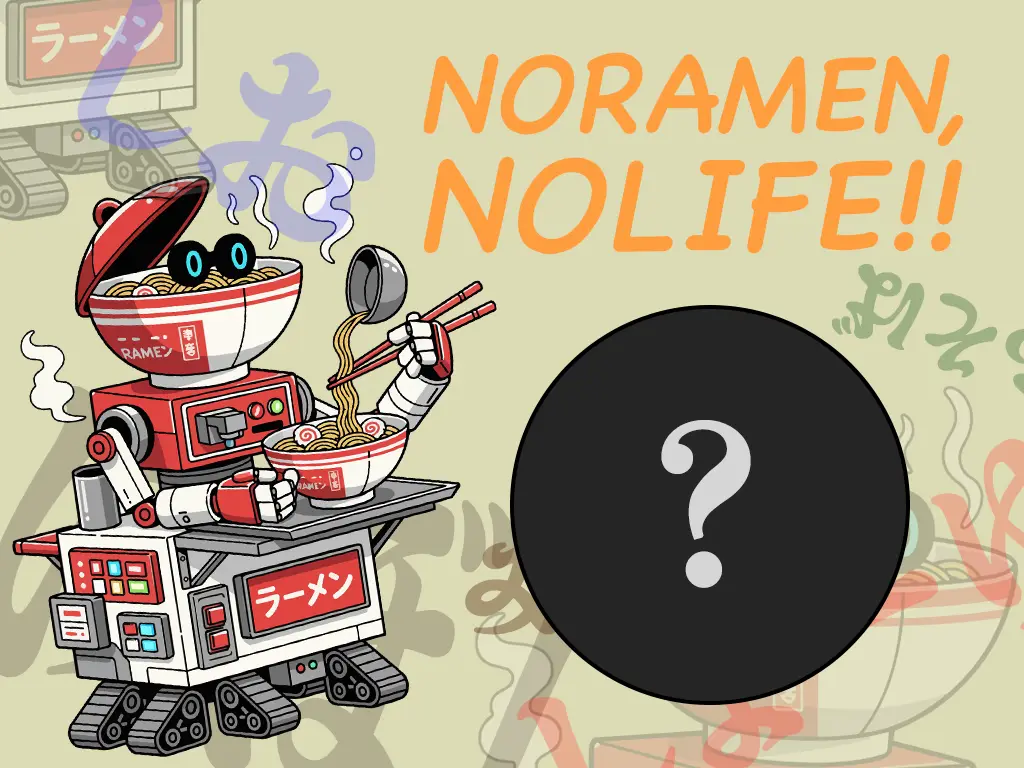
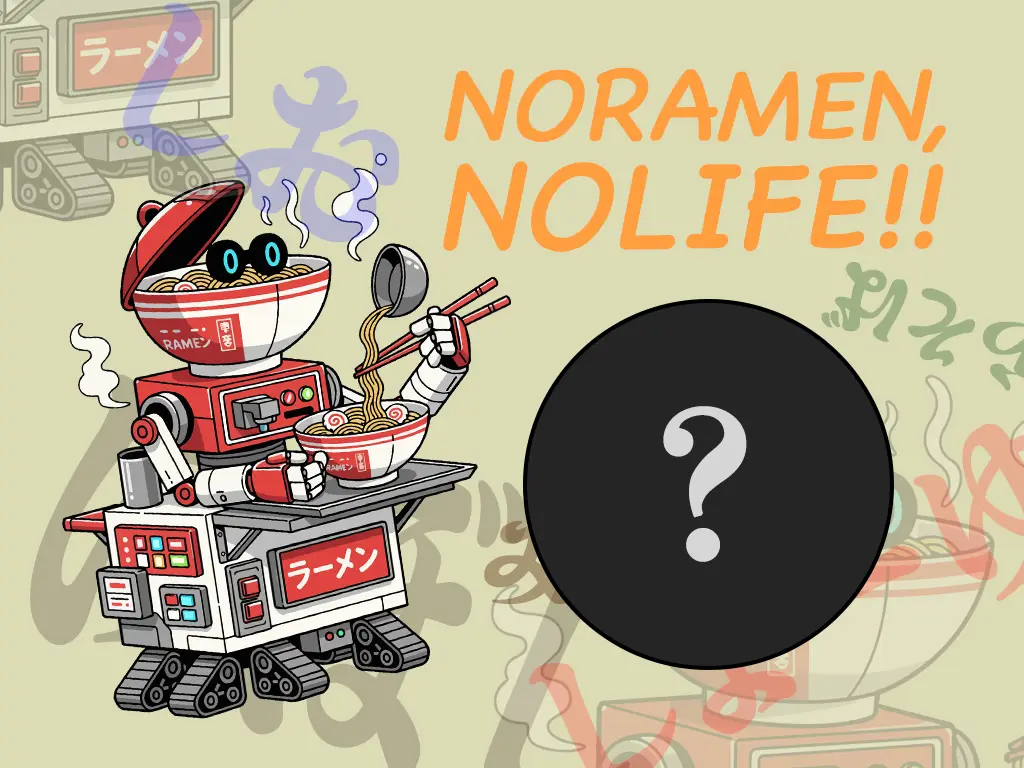
feat: add tv-ui image about thumbnail

diff --git a/frontend/collection/index.html b/frontend/collection/index.html
@@ -71,7 +71,7 @@
 
           <div class="contents">
             <a class="link-1" href="https://hashio251.github.io/02_smallworks_ui-about-like-a-tv/" target="_blank"
-              rel="noopener noreferrer"><img class="works-thumbnail" src="../../assets/images/frontend/collection/tv-ui.png" alt="テレビUIのサムネイル画像"></a>
+              rel="noopener noreferrer"><img class="works-thumbnail" src="../../assets/images/frontend/collection/tv-ui_thumbnail.webp" alt="テレビUIのサムネイル画像"></a>
             <h3><a class="link-2" href="https://hashio251.github.io/02_smallworks_ui-about-like-a-tv/" target="_blank"
                 rel="noopener noreferrer">UI about like a tv</a></h3>
             <p>
